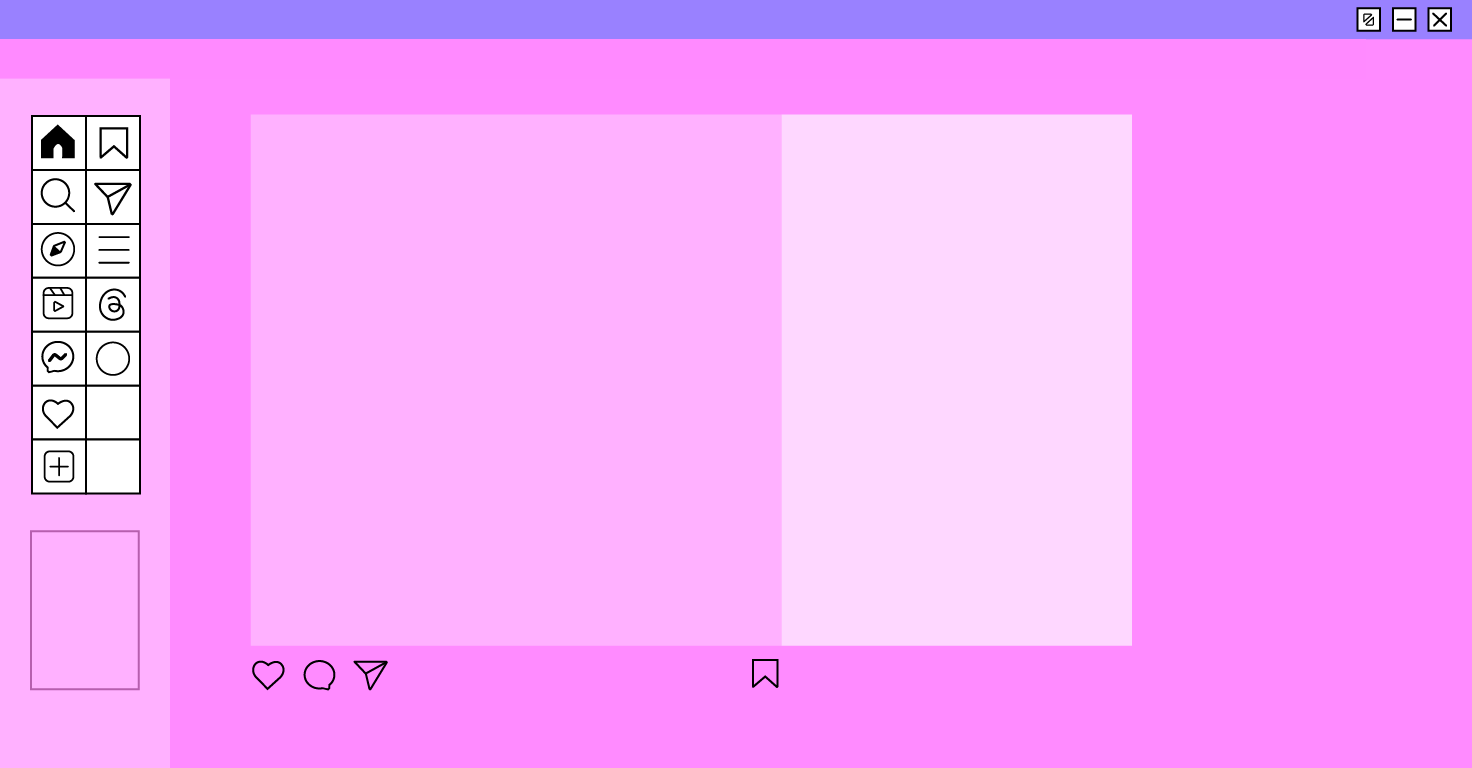
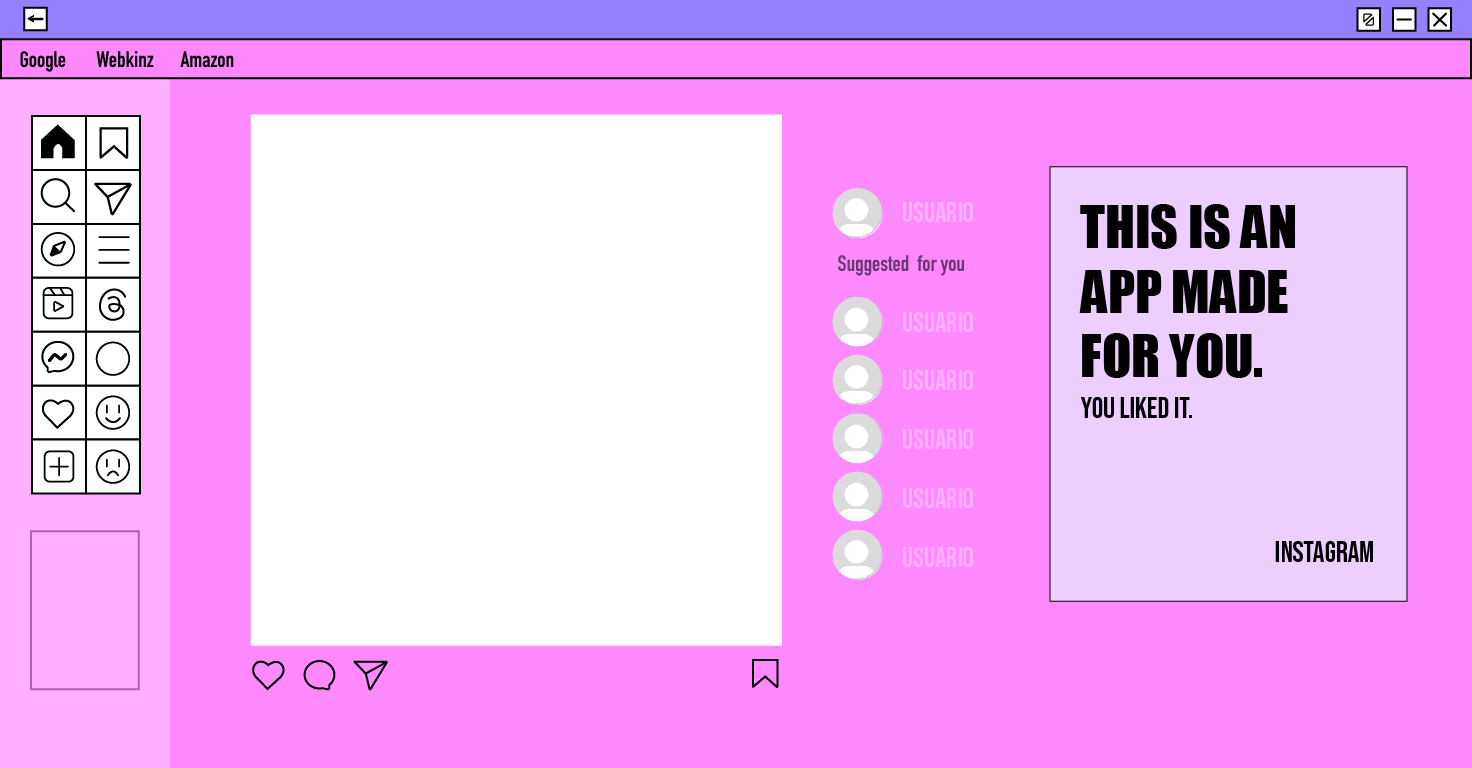
Interface Completed

diff --git a/sketch.js b/sketch.js
@@ -3,25 +3,39 @@ let button2;
 let button3;
 let button4;
 let img;
+let button5;
+// let imgPost;
+
+// function preload(){
+//   imgPost = loadImage('post5.png');
+// }
 
 function setup(){
   noCanvas();
 
-  button = createButton("click");
-  button.position(246,664);
+  imgPostElement = createImg('post5.png');
+  imgPostElement.position(251, 115);
+  imgPostElement.size(530,530)
+
+  button = createButton(".");
+  button.position(247,664);
   button.mouseClicked(buttonClicked);
 
-  button2 = createButton("click");
-  button2.position(300,664);
+  button2 = createButton(".");
+  button2.position(297,664);
   button2.mouseClicked(buttonClicked);
 
-  button3 = createButton("click");
-  button3.position(350,664);
+  button3 = createButton(".");
+  button3.position(370,664);
   button3.mouseClicked(buttonClicked);
 
-  button4 = createButton("click");
+  button4 = createButton(".");
   button4.position(745,664);
-  button4.mouseClicked(buttonClicked);
+  button4.mouseClicked(buttonClicked2);
+
+  button5 = createButton(">");
+  button5.position(745, 400)
+  button5.mouseClicked(buttonPressed)
 }
 
 function buttonClicked(){
@@ -40,6 +54,17 @@ function buttonClicked(){
   img.position(50, 1)
 
   img.mousePressed(clearImage);
+
+
+}
+
+function buttonClicked2(){
+  console.log("cliked2");
+
+  img = createImg('ads05.png')
+  img.position(50, 1)
+
+  img.mousePressed(clearImage);
 }
 
 function clearImage(){
@@ -48,3 +73,18 @@ function clearImage(){
   }
 }
 
+function buttonPressed(){
+
+  let posts = [
+    "posts/post1.png",
+    "posts/post2.png",
+    "posts/post3.png",
+    "posts/post4.png",
+  ];
+
+  let randomIndex = floor(random(posts.length));
+  let randomImg = posts[randomIndex];
+  img = createImg(randomImg)
+  img.position(251,115)
+  img.size(530,530)
+}

diff --git a/index2.html b/index2.html
@@ -5,16 +5,27 @@
     <meta charset="utf-8" />
     <meta name="viewport" content="width=device-width, initial-scale=1.0">
     <title>p5.js Template (global version)</title>
-    <link rel="stylesheet" type="text/css" href="style.css">
+    <link rel="stylesheet" type="text/css" href="style2.css">
     <script src="libraries/p5.min.js"></script>
     <!-- <script src="libraries/p5.sound.min.js"></script> -->
   </head>
 
   <body>
-    <script src="sketch.js"></script>
+    <script src="sketch2.js"></script>
 
-    <img src="bg 2-01.png" alt="interface background change">
-
+    <img src="bg2.png" alt="interface background change">
+  
+    <div id="myRedirect">
+      <p>
+      <button ondblclick="myhref()">
+        -
+      </button>
+    </p>
+    </div>
+      <script>
+      function myhref(){
+        location.href = "index.html";}
+      </script>
   </body>
 
 </html>

diff --git a/index.html b/index.html
@@ -1,6 +1,7 @@
 <!DOCTYPE html>
 <html lang="en">
   
+
   <head>
     <meta charset="utf-8" />
     <meta name="viewport" content="width=device-width, initial-scale=1.0">
@@ -11,19 +12,25 @@
   </head>
 
   <body>
+    
+
     <script src="sketch.js"></script>
 
     <img src="bg 5.png" alt="interface background">
 
-  </p>
+    <div id="myRedirect">
+  <p>
   <button ondblclick="myhref()">
-  redirect
+    .
   </button>
 
   <script>function myhref(){
     location.href = "index2.html";
   }
   </script>
+  </p>
+</div>
+
 
   </body>
 

diff --git a/style2.css b/style2.css
@@ -1,0 +1,13 @@
+button {     
+    background-color: Transparent;
+    background-repeat:no-repeat;
+    border: none;
+    cursor:pointer;
+    overflow: hidden;        
+  }
+  
+  p {
+    position: absolute;
+    left: 35px;
+    top: 1px;
+  }

diff --git a/sketch2.js b/sketch2.js
@@ -1,0 +1,11 @@
+// let imgPostElement;
+
+// function setup(){
+// noCanvas();
+// imgPostElement = createImg('ads06.png');
+// imgPostElement.size(400,400)
+// }
+
+// function mouseMoved(){
+// imgPostElement.position(mouseX, mouseY);
+// }

diff --git a/style.css b/style.css
@@ -8,5 +8,10 @@ button {
   background-repeat:no-repeat;
   border: none;
   cursor:pointer;
-  overflow: hidden;        
+  overflow: hidden;     
+}
+p {
+  position: absolute;
+  left: 35.3px;
+  top: 170px; 
 }
